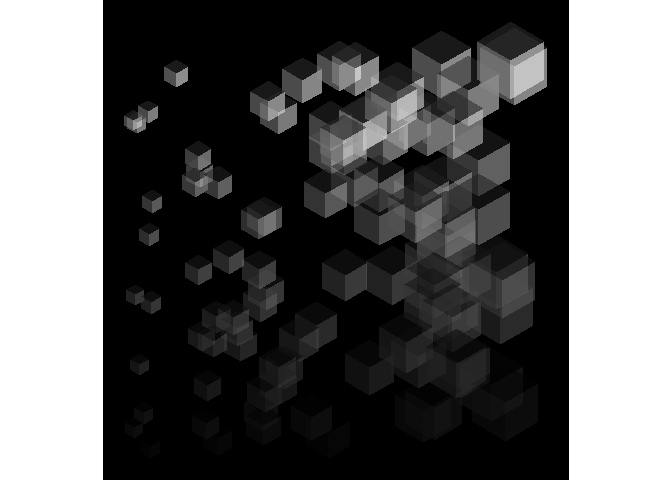
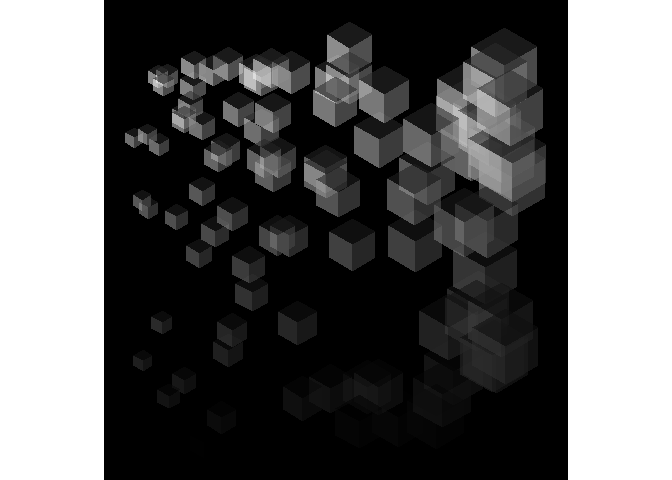
Knitted README.Rmd for Black and White

Changed region(s): [[0.1875, 0.0312, 0.8125, 0.8438], [0.5625, 0.6875, 0.6875, 0.7812]]

diff --git a/2022-01-19_Black-and-white/README.md b/2022-01-19_Black-and-white/README.md
@@ -7,7 +7,7 @@
 <!-- badges: start -->
 <!-- badges: end -->
 
-Monotone [cubescapes]().
+Monotone [cubescapes](https://github.com/paezha/cubescapes).
 
 I use these packages:
 
@@ -178,7 +178,7 @@ ggsave(glue("outputs/cubescape-w-b-{seed}.png"),
        units = "in")
 ```
 
-<img src="outputs/cubescape-w-b-3088855.png" width="500px" />
+<img src="outputs/cubescape-w-b-2602891.png" width="500px" />
 
 Plot with a black background:
 
@@ -213,4 +213,4 @@ ggsave(glue("outputs/cubescape-b-w-{seed}.png"),
 #> Saving 7 x 8 in image
 ```
 
-<img src="outputs/cubescape-b-w-3088855.png" width="500px" />
+<img src="outputs/cubescape-b-w-2602891.png" width="500px" />

diff --git a/README.md b/README.md
@@ -133,7 +133,7 @@ WIP
 
 ## Day 19: [Black and white](https://github.com/paezha/genuary2023/tree/master/2022-01-19_Black-and-white)
 
-Matching Black & white and White & Black images.
+Matching Black & White and White & Black images.
 
 <img src="2022-01-19_Black-and-white/outputs/cubescape-b-w-44498798.png" width="500px" />
 
